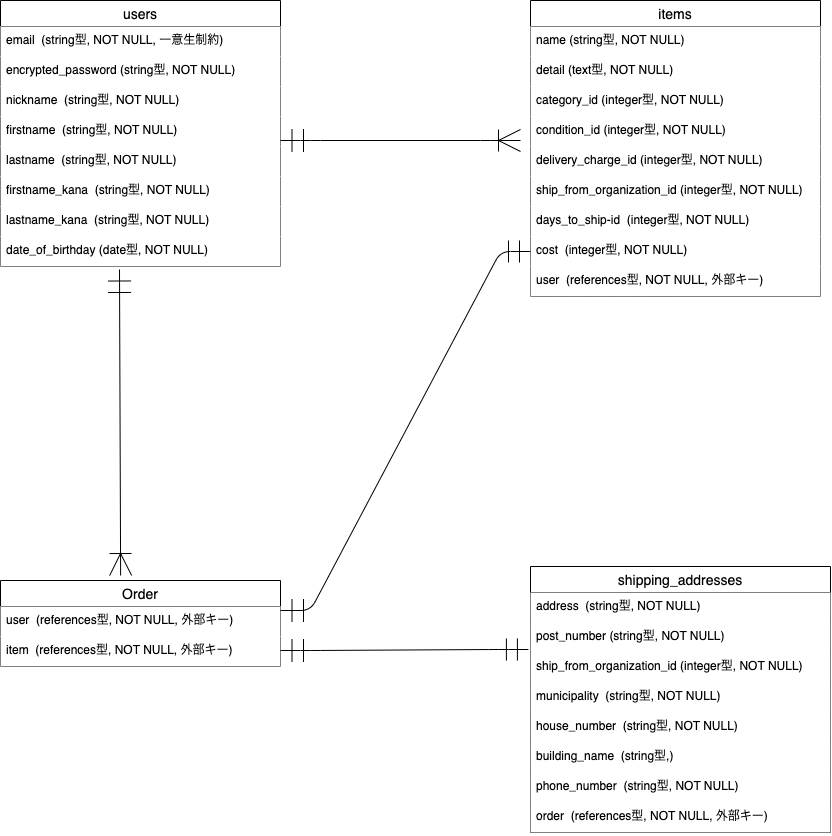
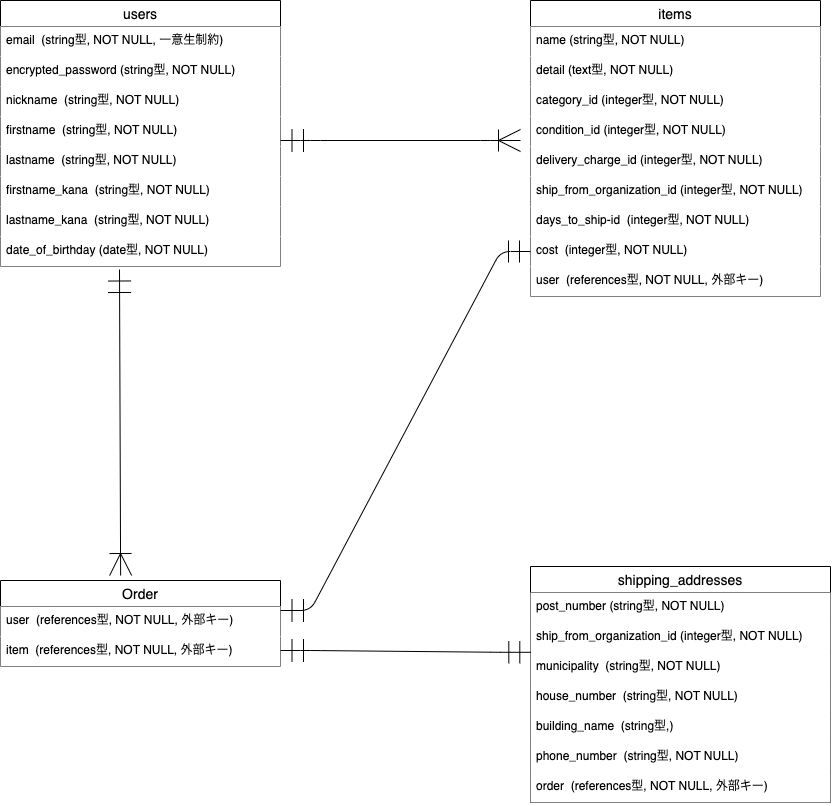
データベース設計再度修正

diff --git a/README.md b/README.md
@@ -54,7 +54,6 @@
 
 | Column                    | Type         | Options                        |
 | ------------------------- | ------------ | ------------------------------ |
-| address                   | string       | null: false                    |
 | post_number               | string       | null: false                    |
 | ship_from_organization_id | integer      | null: false                    |
 | municipality              | string       | null: false                    |
